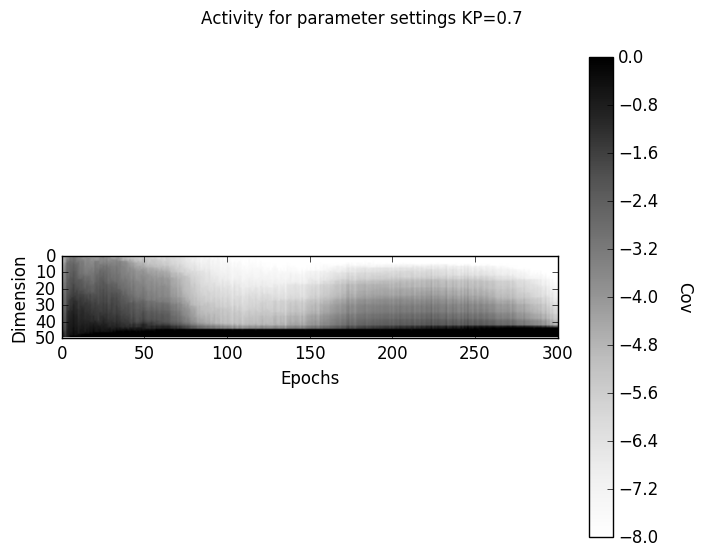
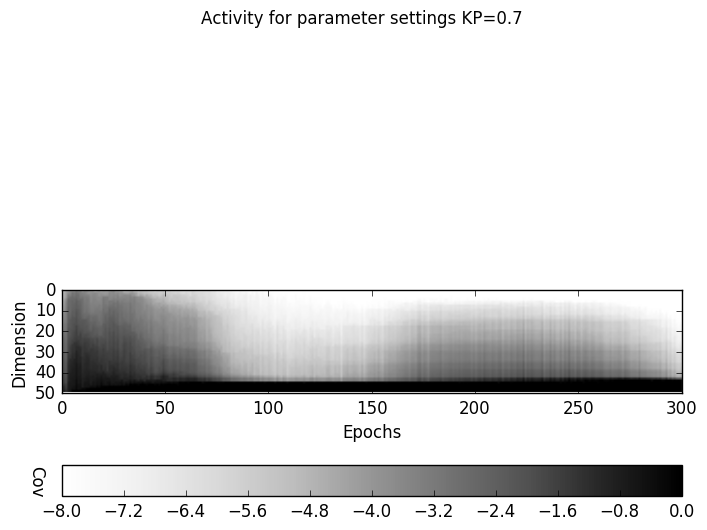
Horizontal colorbars

diff --git a/plots/plot_maker.py b/plots/plot_maker.py
@@ -136,8 +136,8 @@ def shade_tests(trial_parameters,xlabel='Epochs',ylabel='Dimension',title='Activ
         im = plt.imshow(grid,cmap="Greys",origin="lower",vmin=-8,vmax=0)
         plt.axis([0,max_epochs,trial_parameters[trial_name][0],0])
         #Colorbar indexes the shades to activity values. The default vertical looks best
-        #cb=plt.colorbar(im, orientation='horizontal')
-        cb=plt.colorbar(im)
+        cb=plt.colorbar(im, orientation='horizontal')
+        #cb=plt.colorbar(im)
         #Nice labels for the colorbar, axes, and plot
         cb.ax.get_yaxis().labelpad = 25
         cb.ax.set_ylabel('Cov',rotation=270)
